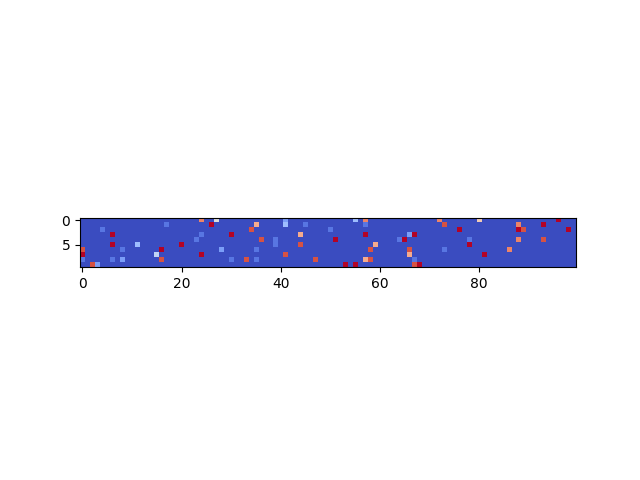
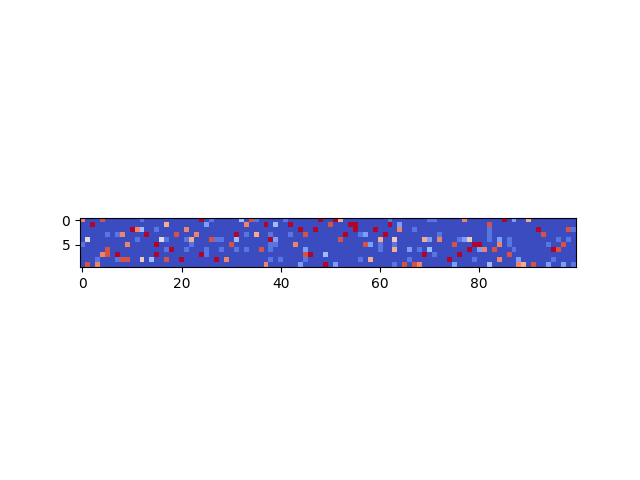
working on mnist. (no working �)

Changed region(s): [[0.125, 0.4375, 0.9062, 0.5625]]

diff --git a/brain.py b/brain.py
@@ -1,7 +1,6 @@
 import numpy as np
 rng = np.random.default_rng()
 import matplotlib.pyplot as plt
-import unittest
 
 class Area():
     neurons: list
@@ -15,11 +14,11 @@ class Area():
     p_q: float
     no_classes: int
     
-    def __init__(self, p = 0.1, cap_size = 5, beta= 0.1, p_r = 0.9, p_q = 0.1, no_classes = 10, n = 100):
+    def __init__(self, p = 0.1, cap_size = 10, beta=0.1, p_r = 0.9, p_q = 0.1, no_classes = 10, n = 100, in_n = 100):
         self.no_classes = no_classes
         self.cap_size = cap_size
         self.n = n
-        self.input_size = self.no_classes * self.cap_size
+        self.input_size = in_n #self.no_classes * self.cap_size
         self.weights = np.ones((self.input_size, n))
         self.p = p
         self.beta = beta
@@ -55,37 +54,43 @@ class Area():
     def _get_propability_matrix(self, input):
         props = np.zeros((self.no_classes, self.input_size))
         for i in range(self.no_classes):
+            _input = self.k_cap(input[i], self.cap_size)
             for j in range(self.input_size):
-                if (input[i, j] == 1):
+                if (_input[j] >= 1):
                     props[i, j] = self.p_r
                 else:
                     props[i, j] = self.p_q
         return props
 
-    def _get_activations(self, in_class_activations):        
-        SI = in_class_activations @ self.weights
+    def _get_activations(self, in_class_activations, bias=None):
+        SI = in_class_activations @ self.weights + (bias if bias is not None else 0) # Correct
+
         activations_t_1 = self.k_cap(SI, self.cap_size)
         return activations_t_1
 
-    def training(self, input = None):
-        no_rounds = 10
-        
-        test_input = input if input else self.test_classes(self.no_classes)
-
+    def training(self, input = None, no_rounds = 10):    
+        test_input = input if input is not None else self.test_classes(self.no_classes)
         props = self._get_propability_matrix(test_input)
+
+        bias = np.zeros(self.n)
+        b = 1
 
         for i in range (self.no_classes):
             ps = props[i]
-            for j in range (no_rounds):
-                in_class_activations = np.array([1 if np.random.rand() < ps[x] else 0 for x in range(self.input_size)])
-                activations_t_1 = self._get_activations(in_class_activations)
-                self.assembly_history[i] += activations_t_1
 
-                # Matrix of same size as weights 1 where in_class_activations is 1 and activations_t_1 is 1
-                outer_prod = np.outer(in_class_activations, activations_t_1) * self.beta
-                self.weights *= np.ones((len(in_class_activations), self.n)) + outer_prod
+            rounds = no_rounds if type(no_rounds) == int else no_rounds[i]
+            for j in range (rounds):
+                in_class_activations = np.array([1 if np.random.rand() < ps[x] else 0 for x in range(self.input_size)])
+                activations_t_1 = self._get_activations(in_class_activations, bias)
+                self.assembly_history[i] += activations_t_1
                 
+                # Matrix of same size as weights 1 where in_class_activations is 1 and activations_t_1 is 1
+                outer_prod = np.outer(in_class_activations, activations_t_1) * self.beta # Correct
+                self.weights = self.weights * (np.ones((len(in_class_activations), self.n)) + outer_prod) # Correct
+
             self.y[i] = activations_t_1
+            self.weights /= self.weights.sum(axis=0)
+            bias[activations_t_1 > 0] -= b
 
         with open ("output.txt", "w") as f:
             f.write(f"test class \n {test_input}\n")
@@ -95,23 +100,33 @@ class Area():
         return self.y
     
     def predict(self, input):
-        # From the output y find the likely class
+        """Predicts the class of the input.
+            
+        Returns:
+            Most likely class. 
+        """
         activations_t_1 = self._get_activations(input)
         
-        smallest_dist = float('inf')
         likely_class = None
+        best_score = 0
+        
         for key, values in self.y.items():
-            dist = np.sqrt(np.sum([(value - activation) ** 2 for value in values for activation in activations_t_1]))
-            
-            if dist < smallest_dist:
-                smallest_dist = dist
+            score = np.sum(np.array(values) == activations_t_1)
+            print("score: ", score)
+            if score > best_score:
+                best_score = score
                 likely_class = key
 
         return likely_class
-    
-class Tests(unittest.TestCase):
-    def test_predict_simple(self):
-        pass
+
+    def score(self, data):
+        correct = 0
+        for i, traning_data in enumerate(data):
+            prediction = self.predict(traning_data)
+            if i == prediction:
+                correct += 1
+                
+        return correct / len(data)
 
 if __name__ == '__main__':
     area = Area()
@@ -130,13 +145,11 @@ if __name__ == '__main__':
     plt.imshow(area.assembly_history, cmap='coolwarm', interpolation='nearest')
     plt.savefig('assembly_history.png')
     
-    input = np.array([0, 0, 0, 0, 0, 0, 0, 0, 0, 0, 0, 0, 0, 0, 0, 0, 0, 0, 0, 0, 0, 0, 0, 0, 0, 0, 0, 0, 0, 0, 0, 0, 0, 0, 0, 0, 0, 0, 0, 0, 0, 0, 0, 0, 0, 1, 1, 1, 1, 1])
+    input = np.array([0, 0, 1, 0, 0, 0, 0, 0, 0, 0, 1, 0, 0, 0, 1, 0, 0, 1, 1, 0, 0, 0, 0, 0, 0, 0, 0, 0, 1, 0, 0, 0, 0, 1, 0, 1, 0, 0, 0, 0, 0, 1, 0, 0, 0, 1, 1, 1, 1, 1])
 
     test = [0 for _ in range(area.cap_size * (area.no_classes - 1))]
     test.extend([1 for _ in range(area.cap_size)])
+        
     
-    print(test)
-    
-    prediction = area.predict(test)
-    print(prediction)
+    print(area.score(area.test_classes(area.no_classes)))
     

diff --git a/mnist.py b/mnist.py
@@ -1,0 +1,57 @@
+from matplotlib import pyplot as plt
+from tensorflow import keras
+import numpy as np
+from brain import *
+
+def main():
+    area = Area(no_classes=10, cap_size=300, n=2000, in_n=784)
+    (X_train,y_train),(X_test,y_test) = keras.datasets.mnist.load_data()
+    
+    no_data_items = 500
+    labels = y_train[:no_data_items]
+    idxs = np.argsort(labels)
+    X_train = [X_train[i] for i in idxs]        
+    labels = [labels[i] for i in idxs]
+    no_of_rounds = []
+    for i in range(10):
+        no_of_rounds.append(labels.count(i))
+    
+    input = np.array([np.matrix.flatten(x) for x in X_train])
+    y = area.training(input, no_rounds=no_of_rounds)
+    
+    
+    diff = []
+    for i in range(20):     
+        out = area.predict(np.matrix.flatten(X_test[i]))
+        expected = y_test[i]
+        
+        diff.append(out - expected)
+        
+        print("Expected: ", expected)
+        print("Predicted: ", out)
+        print("----------------------------------------")
+    
+    print("Accuracy: ", diff.count(0) / len(diff))
+    
+    X = np.array(list(y.values()))
+    plt.imshow(X, cmap='coolwarm', interpolation='nearest')
+    plt.savefig('assemblies.png')
+    
+    plt.imshow(area.weights, cmap='hot', interpolation='nearest')
+    plt.savefig('weights.png')
+
+    # Plot of firing probs
+    # fig, ax = plt.subplots(figsize=(10, 4))
+    # for i in range(10):
+    #     ax.bar(np.arange(area.n), y[i, -1].mean(axis=0)[idx], label=i)
+    # ax.legend(loc='upper right', ncol=2)
+    # ax.spines['top'].set_visible(False)
+    # ax.spines['right'].set_visible(False)
+    # ax.set_ylim([0, 1.1])
+    # ax.set_xticklabels([])
+    # ax.set_xlabel('Neurons')
+    # ax.set_ylabel('Firing Probability')
+    
+
+if __name__ == '__main__':
+    main()

diff --git a/test.py b/test.py
@@ -1,0 +1,22 @@
+import unittest
+from brain import *
+import numpy as np
+
+class Tests(unittest.TestCase):
+    def setUp(self):
+        self.area = Area(no_classes=20, cap_size=60, n=500, in_n=1200)
+        self.data = self.area.test_classes(self.area.no_classes)
+        self.area.training(input=self.data)
+        
+        return super().setUp()
+    
+    def test_predict_simple(self):
+        for i, traning_data in enumerate(self.data):           
+            noise = i * 0.01
+            
+            r = np.random.choice([0, 1], size=self.data[0].shape, p=[noise, 1 - noise]) 
+            self.assertEqual(i, self.area.predict(traning_data * r))
+            
+
+if __name__ == '__main__':
+    unittest.main()
